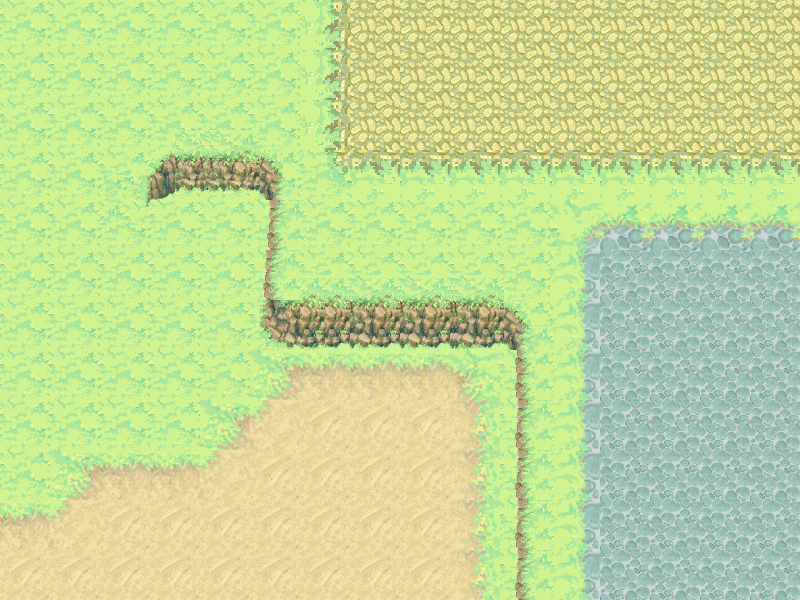
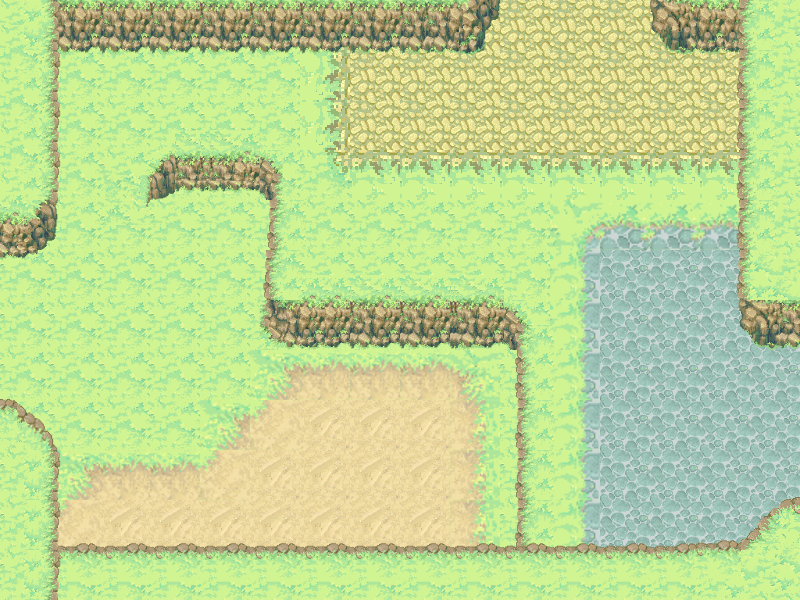
Updated overworld map

Changed region(s): [[0.0, 0.66, 1.0, 1.0], [0.0, 0.0, 0.625, 0.45], [0.8125, 0.0, 1.0, 0.6]]

diff --git a/src/main/java/dad/fxrevenge/world/WorldMapController.java b/src/main/java/dad/fxrevenge/world/WorldMapController.java
@@ -36,18 +36,18 @@ public class WorldMapController implements GameScene, Parameters {
 
 	private static String[][] overworld = {
 //			{ "1", "2", "3", "4", "5", "6", "7", "8", "9", "10", "11", "12", "13", "14", "15", "16"},
-			{ "T2", "T2", "T2", "T2", "T2", "T2", "T2", "T2", "T2", "T2", "T2", "VM", "T2", "T2", "T2", "T2" },
-			{ "T2", ".", ".", ".", ".", ".", ".", ".", ".", ".", ".", ".", ".", ".", ".", "T2" },
-			{ "T2", ".", ".", ".", ".", ".", ".", ".", ".", ".", ".", ".", ".", ".", ".", "T2" },
-			{ "T2", ".", ".", "x", "x", "x", ".", ".", ".", ".", ".", ".", ".", ".", ".", "T2" },
-			{ "T2", ".", ".", ".", ".", "x", ".", ".", ".", ".", ".", ".", ".", ".", ".", "T2" },
-			{ "T2", "T2", "T2", ".", ".", "x", "L", ".", ".", ".", ".", ".", ".", ".", ".", "T2" },
-			{ "MM", ".", ".", ".", ".", "x", "x", "x", "x", "x", "x", ".", ".", ".", ".", "T2" },
-			{ "T2", ".", ".", ".", ".", ".", ".", ".", ".", ".", "x", ".", ".", ".", ".", "T2" },
-			{ "T2", ".", "T2", "T2", ".", ".", ".", ".", ".", ".", "x", ".", ".", ".", ".", "CM" },
-			{ "T2", ".", ".", ".", ".", ".", ".", "P", ".", ".", "x", ".", ".", ".", ".", "T2" },
-			{ "T2", ".", ".", ".", ".", ".", ".", ".", ".", ".", "x", ".", ".", ".", ".", "T2" },
-			{ "T2", "T2", "T2", "T2", "T2", "T2", "T2", "T2", "T2", "T2", "T2", "T2", "T2", "T2", "T2", "T2" } };
+			{ "T1", "x", "x", "x", "x", "x", "x", "x", "x", "x", "VM", "VM", "VM", "x", "x", "T1" },
+			{ "x", ".", ".", ".", ".", ".", ".", ".", ".", ".", ".", ".", ".", ".", ".", "x" },
+			{ "T1", ".", ".", ".", ".", ".", ".", ".", ".", ".", ".", ".", ".", ".", ".", "T1" },
+			{ "x", ".", ".", "x", "x", "x", ".", ".", ".", ".", ".", ".", ".", ".", ".", "x" },
+			{ "x", ".", ".", ".", ".", "x", ".", ".", ".", ".", ".", ".", ".", ".", ".", "T1" },
+			{ "MM", ".", ".", ".", ".", "x", "L", ".", ".", ".", ".", ".", ".", ".", ".", "x" },
+			{ "MM", ".", ".", ".", ".", "x", "x", "x", "x", "x", "x", ".", ".", ".", ".", "x" },
+			{ "MM", ".", ".", ".", ".", ".", ".", ".", ".", ".", "x", ".", ".", ".", ".", "CM" },
+			{ "x", ".", ".", "T3", ".", ".", ".", ".", ".", ".", "x", ".", ".", ".", ".", "CM" },
+			{ "T1", ".", ".", ".", ".", ".", ".", "P", ".", ".", "x", ".", ".", ".", ".", "CM" },
+			{ "x", ".", ".", ".", ".", ".", ".", ".", ".", ".", "x", ".", ".", ".", ".", "x" },
+			{ "T1", "x", "T1", "x", "T1", "x", "T1", "x", "T1", "x", "T1", "x", "T1", "x", "T1", "x" } };
 
 	public WorldMapController() {
 		WorldMapController.world = overworld;
